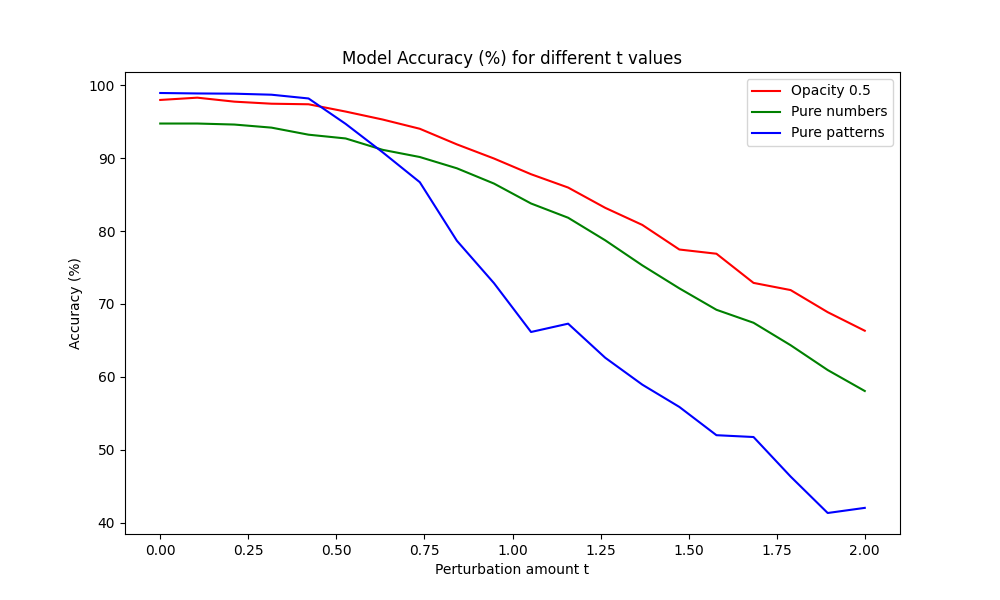
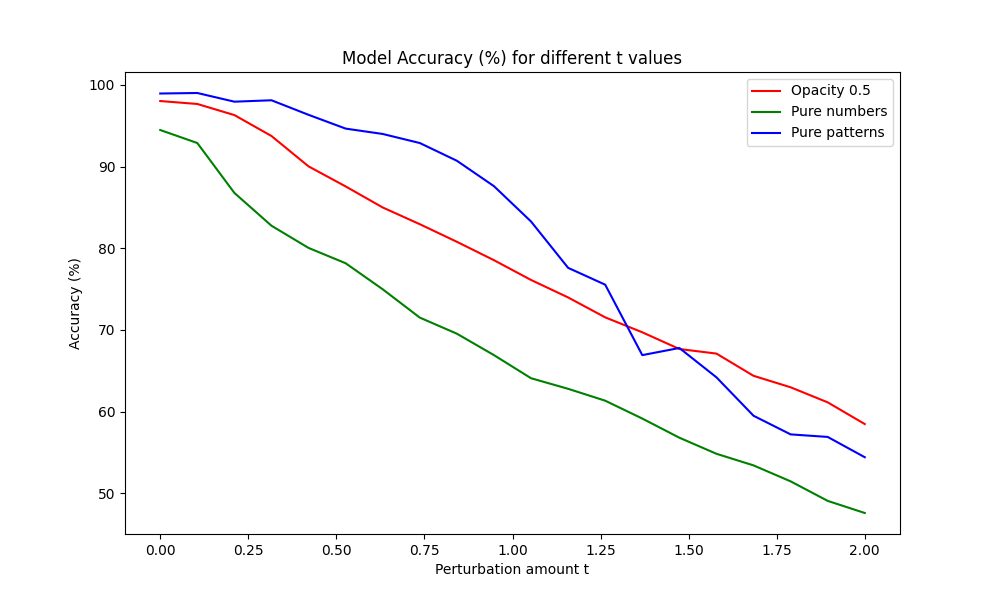
Fix eigenvector ordering bug

diff --git a/hessian_eig.py b/hessian_eig.py
@@ -7,7 +7,7 @@ import numpy as np
 from helpers import orthogonal_complement, plot_pertubation_results
 from torch.nn.utils import parameters_to_vector, vector_to_parameters
 
-def get_hessian_eigenvalues(model, loss_fn, train_data_loader, num_batches=30, device="cuda", n_top_vectors=100):
+def get_hessian_eigenvalues(model, loss_fn, train_data_loader, num_batches=30, device="cuda", n_top_vectors=200):
     """
     model: a pytorch model
     loss_fn: a pytorch loss function
@@ -43,7 +43,7 @@ def get_hessian_eigenvalues(model, loss_fn, train_data_loader, num_batches=30, d
         return hessian_vector_product(v_tensor).cpu().detach().numpy()
     
     linear_operator = LinearOperator((num_params, num_params), matvec=matvec)
-    eigenvalues, eigenvectors = eigsh(linear_operator, k=200, tol=0.001, which='LM', return_eigenvectors=True)
+    eigenvalues, eigenvectors = eigsh(linear_operator, k=n_top_vectors, tol=0.001, which='LM', return_eigenvectors=True)
     tot = 0
     thresholds = [0.1, 1, 2, 10]
     for e in eigenvalues:
@@ -55,8 +55,7 @@ def get_hessian_eigenvalues(model, loss_fn, train_data_loader, num_batches=30, d
         print(f"Number of eigenvalues greater than {threshold}: {tot}")
         tot = 0
     eigenvectors = np.transpose(eigenvectors)
-    print(eigenvectors.shape)
-    return tot, eigenvalues, eigenvectors[:n_top_vectors]
+    return tot, eigenvalues, eigenvectors
 
 
 def get_hessian_eig_mnist(fname, patterns_per_num, opacity=0.5, use_mixed_dataloader=False):
@@ -74,7 +73,7 @@ def get_hessian_eig_mnist(fname, patterns_per_num, opacity=0.5, use_mixed_datalo
         data_loader_test = CombinedDataLoader(d1, d2)
     get_hessian_eigenvalues(model, loss_fn, data_loader_test, num_batches=30, device="cuda")
 
-def perturb_in_direction(fname, patterns_per_num, direction, n_p=60):
+def perturb_in_direction(fname, patterns_per_num, direction, n_p=50):
     """
     fname: checkpoint file name
     patterns_per_num: number of patterns per digit
@@ -112,8 +111,9 @@ def perturb_in_direction(fname, patterns_per_num, direction, n_p=60):
     # get opacity 0.5 dataloader
     _, data_loader_05_test = load_mnist_data(patterns_per_num, opacity=0.5)
 
-    # exp scale for t values 
-    t_values = np.linspace(0, 2, 20)
+
+    t_values = np.linspace(0, 0.5, 50)
+
     # store results 
     acc_results = []
     loss_results = []
